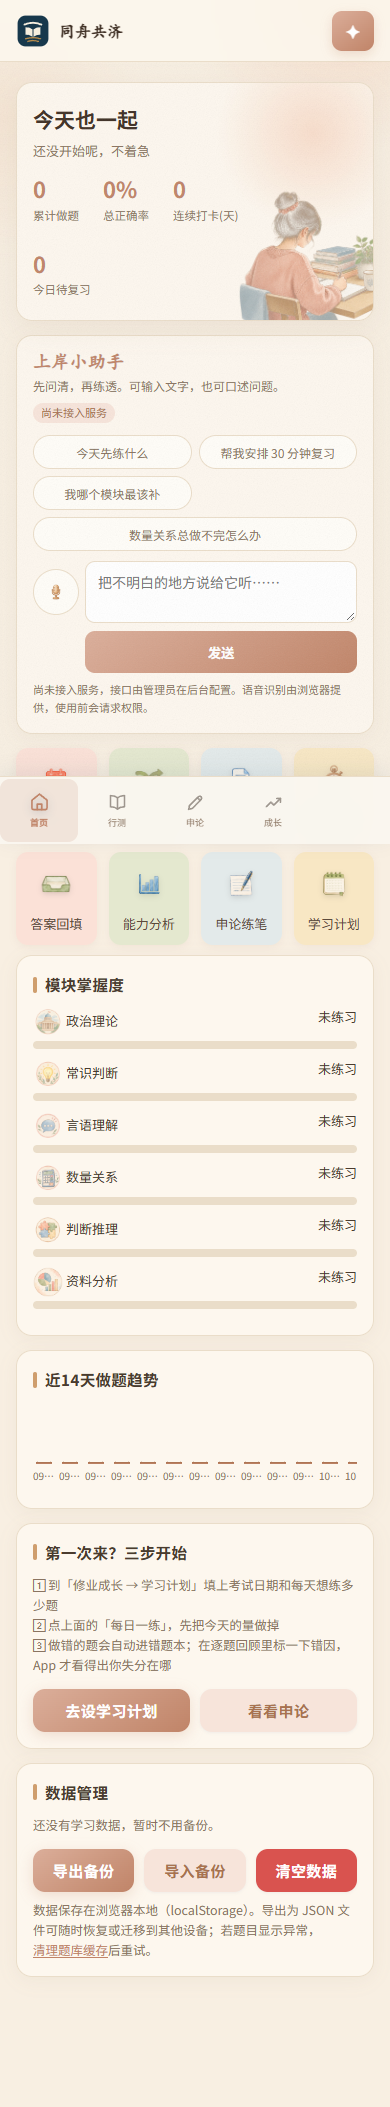
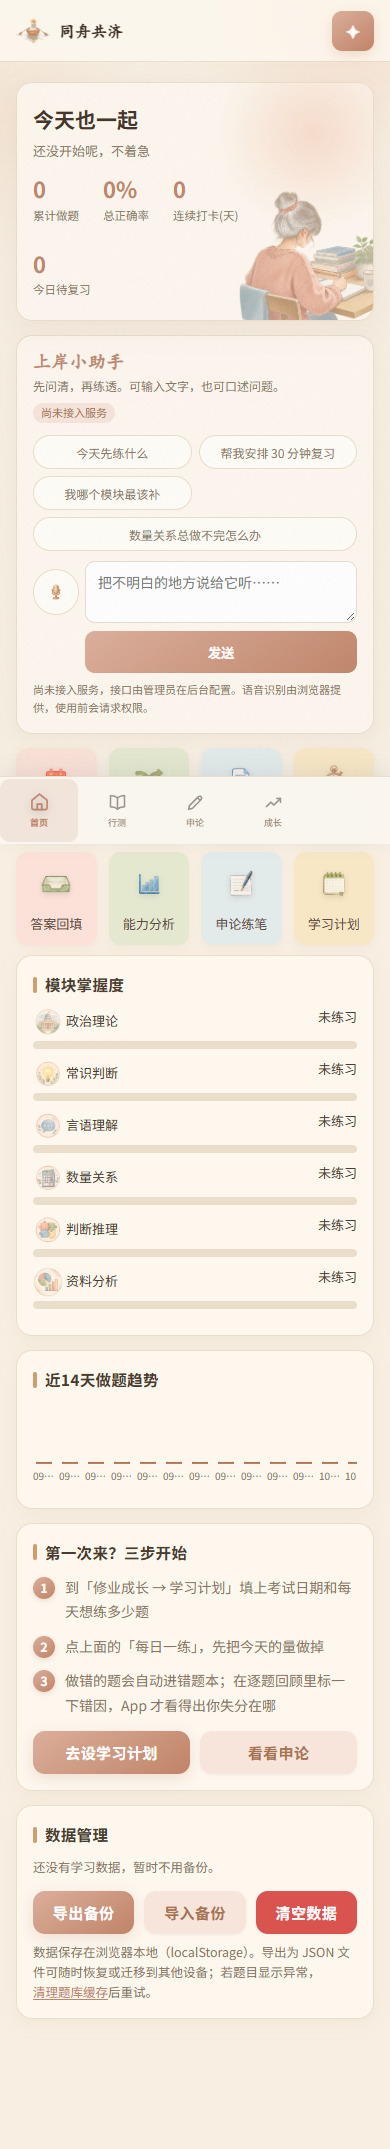
[verified] fix: 替换会在部分手机上显示空白的 emoji
- 「第一次来？三步开始」原来用组合键帽 emoji（1⃣2⃣3⃣），部分安卓渲染成空白
  改为 .steps 结构 + CSS 圆形序号，颜色跟随主题
- 顶栏「✦ 上岸小助手」→ 图标
- 答题页「⚑ 标记」→ 图标
- 收藏提示里的 ❤ 去掉（同样有渲染风险）
- 手机端顶栏 logo 与侧栏统一为 assets/logo-mark.png（顺带 757KB → 40KB）

题库正文里的 ①②③ 是真题原文的标准 CJK 字符，各端均支持，未改动。

diff --git a/js/app.js b/js/app.js
@@ -1068,9 +1068,11 @@ function renderDash(){
     <button class="btn primary" onclick="quickStart('错题重练')">开始复习 →</button>
   </div>`:''}
   ${store.stats.answered===0? `<div class="card"><h3><span class="dot"></span>第一次来？三步开始</h3>
-    <div class="muted mb10">1⃣ 到「修业成长 → 学习计划」填上考试日期和每天想练多少题<br>
-    2⃣ 点上面的「每日一练」，先把今天的量做掉<br>
-    3⃣ 做错的题会自动进错题本；在逐题回顾里标一下错因，App 才看得出你失分在哪</div>
+    <div class="steps">
+      <div class="step"><i>1</i><span>到「修业成长 → 学习计划」填上考试日期和每天想练多少题</span></div>
+      <div class="step"><i>2</i><span>点上面的「每日一练」，先把今天的量做掉</span></div>
+      <div class="step"><i>3</i><span>做错的题会自动进错题本；在逐题回顾里标一下错因，App 才看得出你失分在哪</span></div>
+    </div>
     <div class="btn-row">
       <button class="btn primary" onclick="openGrowthTool('plan')">去设学习计划</button>
       <button class="btn" onclick="switchTab('shenlun')">看看申论</button>
@@ -2101,7 +2103,7 @@ function renderShenlunSearch(){
 function toggleFav(title){
   const i=store.favs.indexOf(title);
   i>=0?store.favs.splice(i,1):store.favs.push(title);
-  save(); renderShenlun(); toast(i>=0?'已取消收藏':'已收藏 ❤', i>=0?'':'ok');
+  save(); renderShenlun(); toast(i>=0?'已取消收藏':'已收藏', i>=0?'':'ok');
 }
 function addCustomSl(){
   const title=$('#slTitle').value.trim(), body=$('#slBody').value.trim(), cat=$('#slCat').value;

diff --git a/index.html b/index.html
@@ -39,7 +39,7 @@
       </div>
       <div class="top-actions">
         <span id="streakBadge" class="streak-badge" title="连续打卡天数">连续学习 <b>0</b> 天</span>
-        <button type="button" class="top-ask" data-open-view="ai">✦ 上岸小助手</button>
+        <button type="button" class="top-ask" data-open-view="ai"><svg class="ico" aria-hidden="true"><use href="#i-spark"></use></svg>上岸小助手</button>
       </div>
       <div id="bankProgress" class="bank-progress hidden" title="完整题库加载进度" role="status" aria-live="polite"><i></i><span></span></div>
     </header>
@@ -61,7 +61,7 @@
   <div class="quiz-body" id="quizBody"></div>
   <div class="quiz-foot" id="quizFoot">
     <button class="btn" id="footPrev" onclick="prevQ()">上一题</button>
-    <button class="btn" id="footMark" onclick="markQ()">⚑ 标记</button>
+    <button class="btn" id="footMark" onclick="markQ()"><svg class="ico" aria-hidden="true"><use href="#i-flag"></use></svg> 标记</button>
     <button class="btn primary" id="footNext" onclick="nextQ()">下一题</button>
   </div>
 </div>

diff --git a/css/patch.css b/css/patch.css
@@ -56,3 +56,13 @@
   .why-chip{padding:6px 13px;font-size:13px}
   .why-box{padding:12px 13px}
 }
+
+
+/* ---------- 8. 三步开始（原用 emoji 键帽 1⃣2⃣3⃣，部分安卓渲染成空白） ---------- */
+.steps{display:flex;flex-direction:column;gap:10px}
+.step{display:flex;align-items:flex-start;gap:10px;font-size:14px;line-height:1.75;color:var(--ink-2)}
+.step>i{flex:none;width:22px;height:22px;border-radius:50%;margin-top:2px;
+  display:grid;place-items:center;font-style:normal;font-size:12.5px;font-weight:700;
+  background:linear-gradient(145deg,var(--clay-2),var(--clay));color:#fff;
+  box-shadow:0 2px 6px rgba(192,132,104,.28)}
+.step>span{flex:1;min-width:0}

diff --git a/scripts/test_v24_zhize_ui.py b/scripts/test_v24_zhize_ui.py
@@ -27,7 +27,7 @@ with sync_playwright() as p:
         page.locator(".brand-name").inner_text().splitlines() == ["同舟共济", "一起渡过这段路"],
         page.locator(".brand-name").inner_text(),
     )
-    check("品牌图标使用生成的小舟插画", page.locator('.brand-logo img[src*="logo-boat"]').count() == 1)
+    check("品牌图标使用生成的小舟插画", page.locator('.brand-logo img[src*="logo-mark"]').count() == 1)
 
     expected = ["首页", "行测", "申论", "成长", "上岸小助手"]
     labels = page.locator(".tabbar .tab").all_inner_texts()
